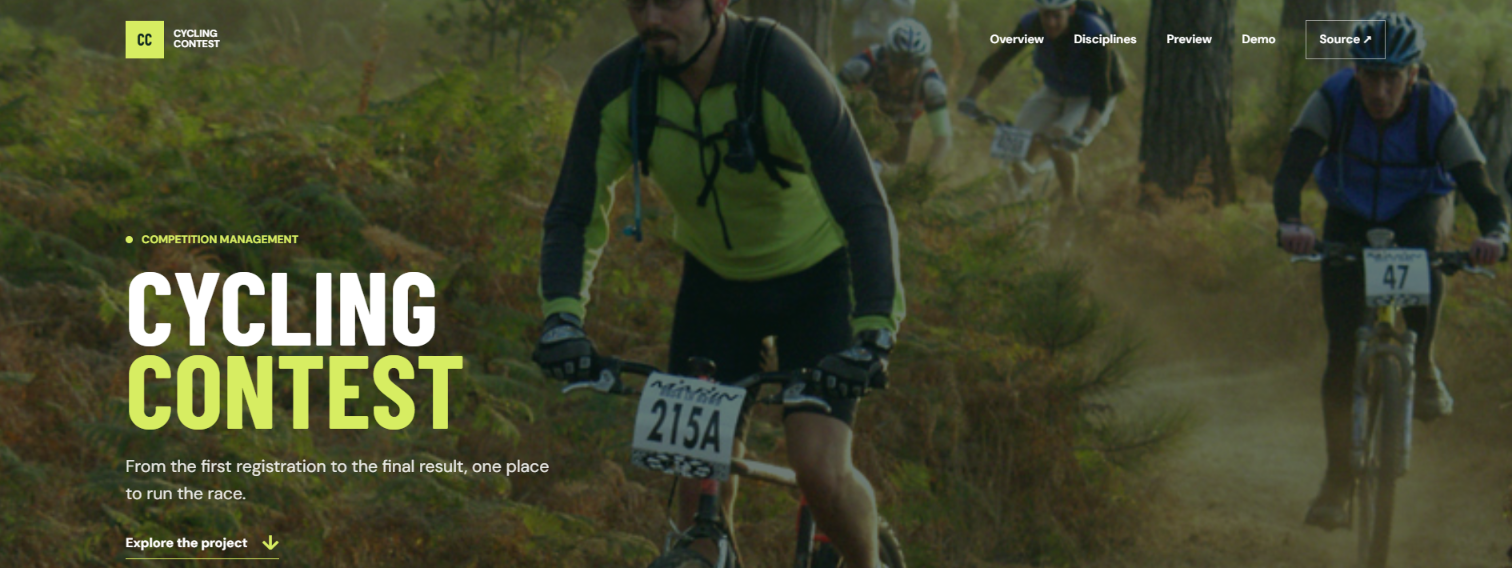
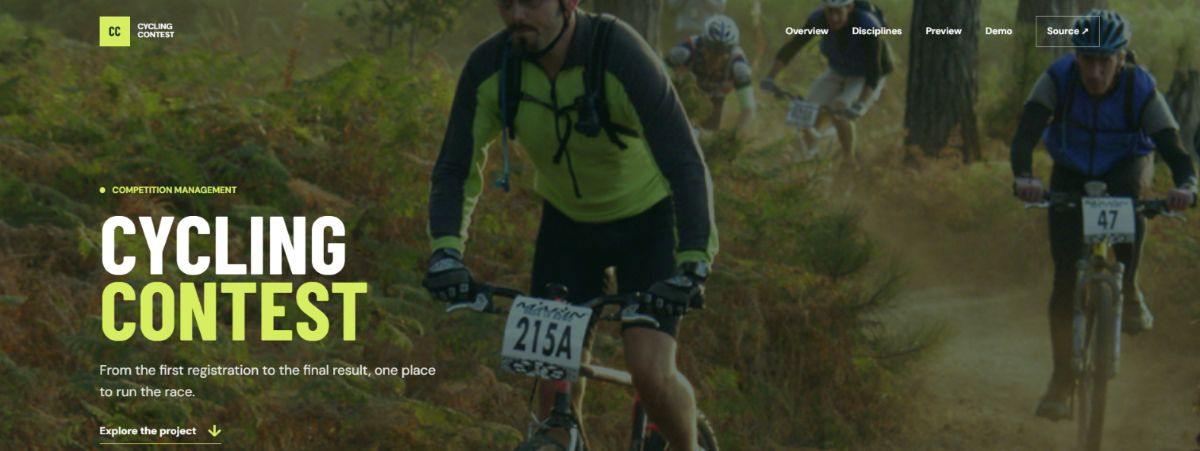
SEO cover image test

diff --git a/docs/index.html b/docs/index.html
@@ -19,8 +19,8 @@
     <meta property="og:image" content="https://andreitmz.github.io/CyclingContest/images/cover.jpg">
     <meta property="og:image:secure_url" content="https://andreitmz.github.io/CyclingContest/images/cover.jpg">
     <meta property="og:image:type" content="image/jpeg">
-    <meta property="og:image:width" content="1512">
-    <meta property="og:image:height" content="568">
+    <meta property="og:image:width" content="1200">
+    <meta property="og:image:height" content="451">
     <meta property="og:image:alt" content="Cycling Contest competition platform presentation">
 
     <meta name="twitter:card" content="summary_large_image">
